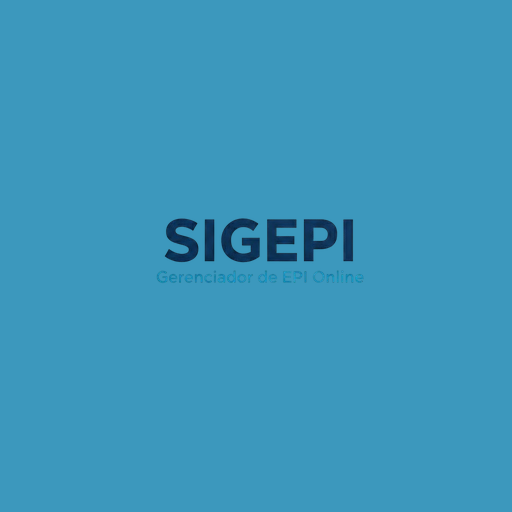
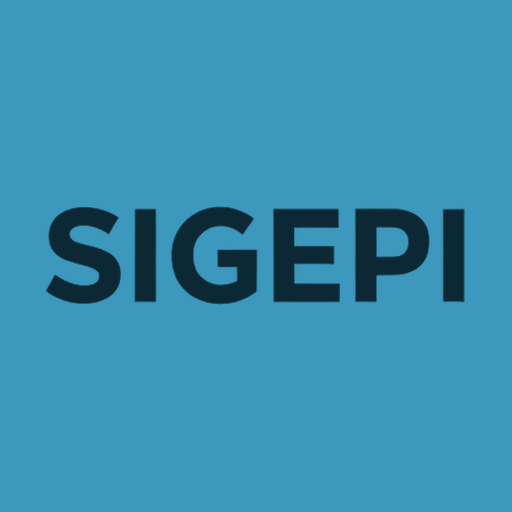
Correcao dos checkboxes no mobile, pulo dos termos ja aceitos e novo icone do PWA

Changed region(s): [[0.0938, 0.4062, 0.9062, 0.5938]]

diff --git a/Projeto/index.html b/Projeto/index.html
@@ -14,7 +14,16 @@
   <!-- Os Termos são a PRIMEIRA tela: redireciona para o aceite antes de qualquer coisa -->
   <meta http-equiv="refresh" content="0; url=paginas/termos.html">
   <script>
-    window.location.replace('paginas/termos.html');
+    // Se o usuário já aceitou esta versão dos termos, vai direto para o login
+    const VERSAO_TERMOS = '1.0';
+    let jaAceitou = false;
+    try {
+      const registro = JSON.parse(localStorage.getItem('termosAceitos'));
+      jaAceitou = registro && registro.versao === VERSAO_TERMOS;
+    } catch (e) {
+      jaAceitou = false;
+    }
+    window.location.replace(jaAceitou ? 'paginas/loginpage.html' : 'paginas/termos.html');
   </script>
 </head>
 <body>

diff --git a/Projeto/sw.js b/Projeto/sw.js
@@ -1,7 +1,7 @@
 // sw.js = Um script que fica em segundo plano e guarda os arquivos pra abrir offline
 // manifest.json = A "identidade" do app: nome, cor, ícone, por onde abre
 
-const CACHE_NOME = 'sigepi-v3'; // Sempre que mexer no sw.js troque para 'sigepi-v1,v2,v3,v4,v5,...'
+const CACHE_NOME = 'sigepi-v4'; // Sempre que mexer no sw.js troque para 'sigepi-v1,v2,v3,v4,v5,...'
 
 // Arquivos que ficam guardados para o app abrir mesmo sem internet
 const ARQUIVOS = [

diff --git a/Projeto/estilos/style.css b/Projeto/estilos/style.css
@@ -1909,6 +1909,14 @@ input[type="number"]::-webkit-outer-spin-button {
     flex-shrink: 0;
     margin-top: 2px;
   }
+
+  .chk-setor-label input[type="checkbox"] {
+    width: 16px;
+    height: 16px;
+    flex-shrink: 0;
+    margin-top: 2px;
+    accent-color: var(--btn-primary);
+  }
 }
 
 /* ===================== CELULAR PEQUENO (≤380px) ===================== */
